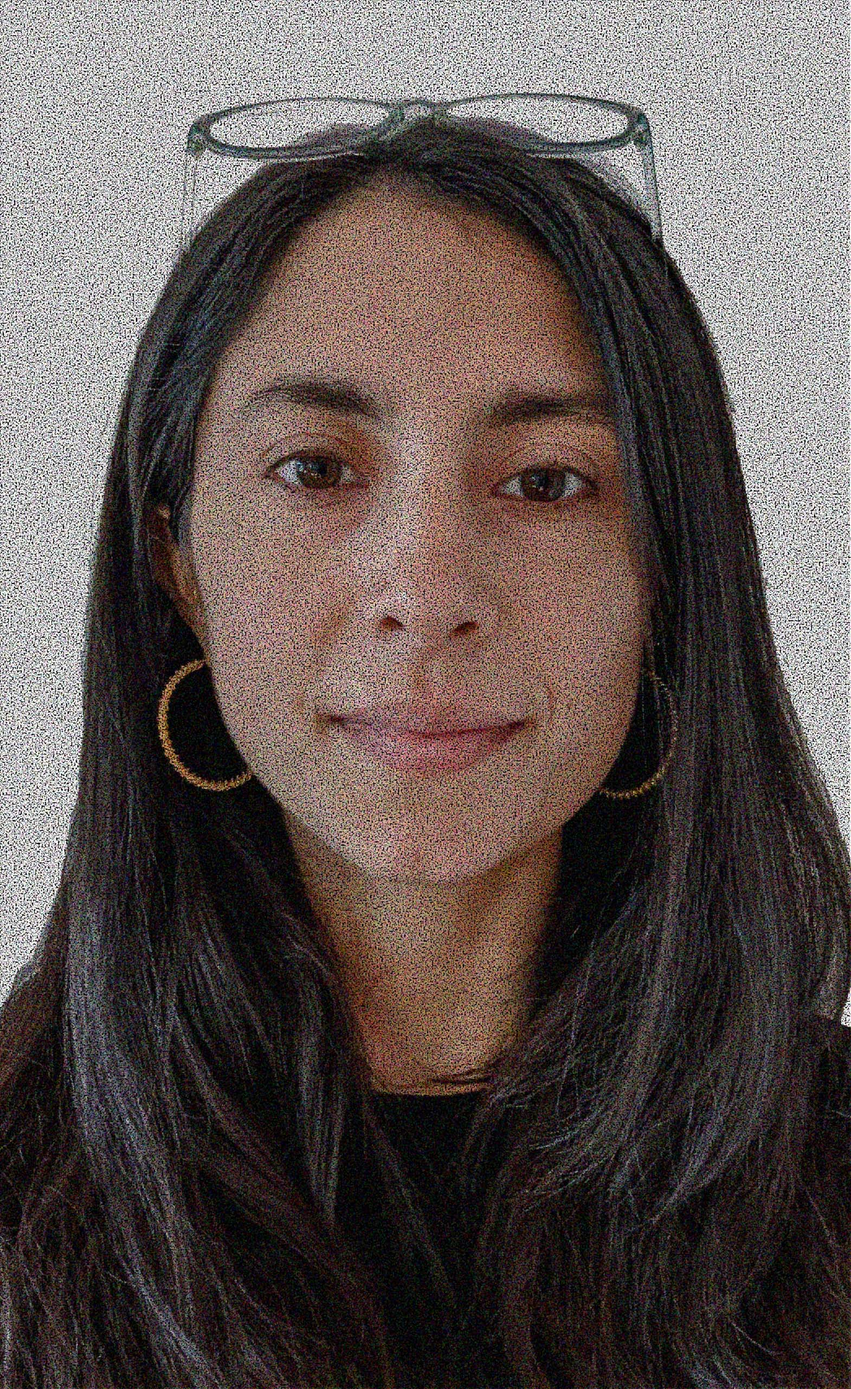
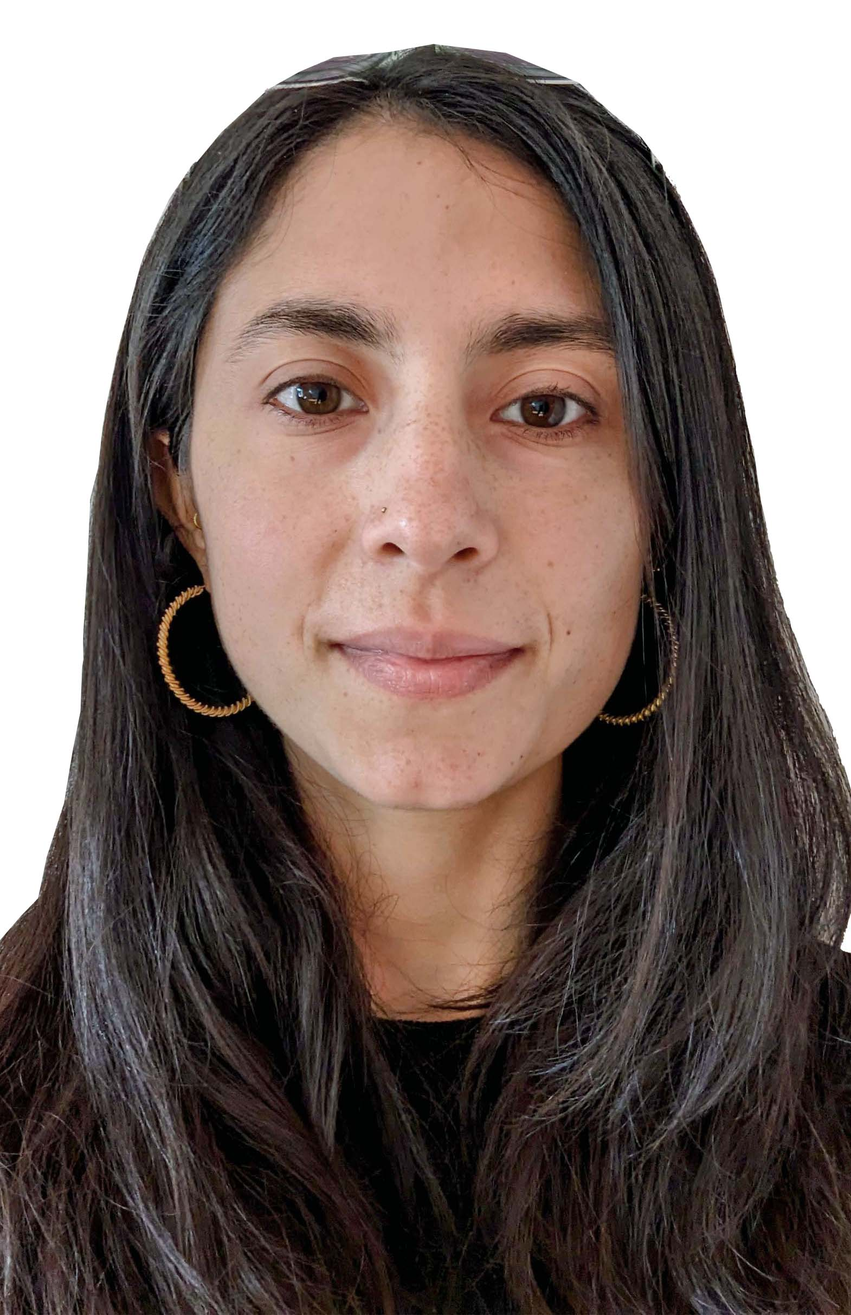
foto updated

diff --git a/styles.css b/styles.css
@@ -22,7 +22,6 @@ html {
 
 :root {
   --main-bg-color: #181410;
-  /* --main-bg-color: #f9f4f0; */
   --secondary-color: #f7f7f7;
   --soft-gray: rgb(243, 243, 243);
   --black-gray: rgb(40, 40, 40);
@@ -205,18 +204,20 @@ button i {
 }
 
 .img-container {
+    position: relative;
   border-radius: 50%;
   overflow: hidden;
-  width: 8rem;
-  height: 8rem;
+  width: 9rem;
+  height: 9rem;
   background-color: rgb(255, 255, 255);
   border: 0.5px solid var(--dark-gray);
-  object-position: center;
 }
 
 .img-container img {
-  height: 10rem;
-  object-position: center;
+  position: absolute;
+    height: 12rem;
+  left: .7rem;
+  bottom: -2rem;
 }
 
 /* ------  contact ----- */
